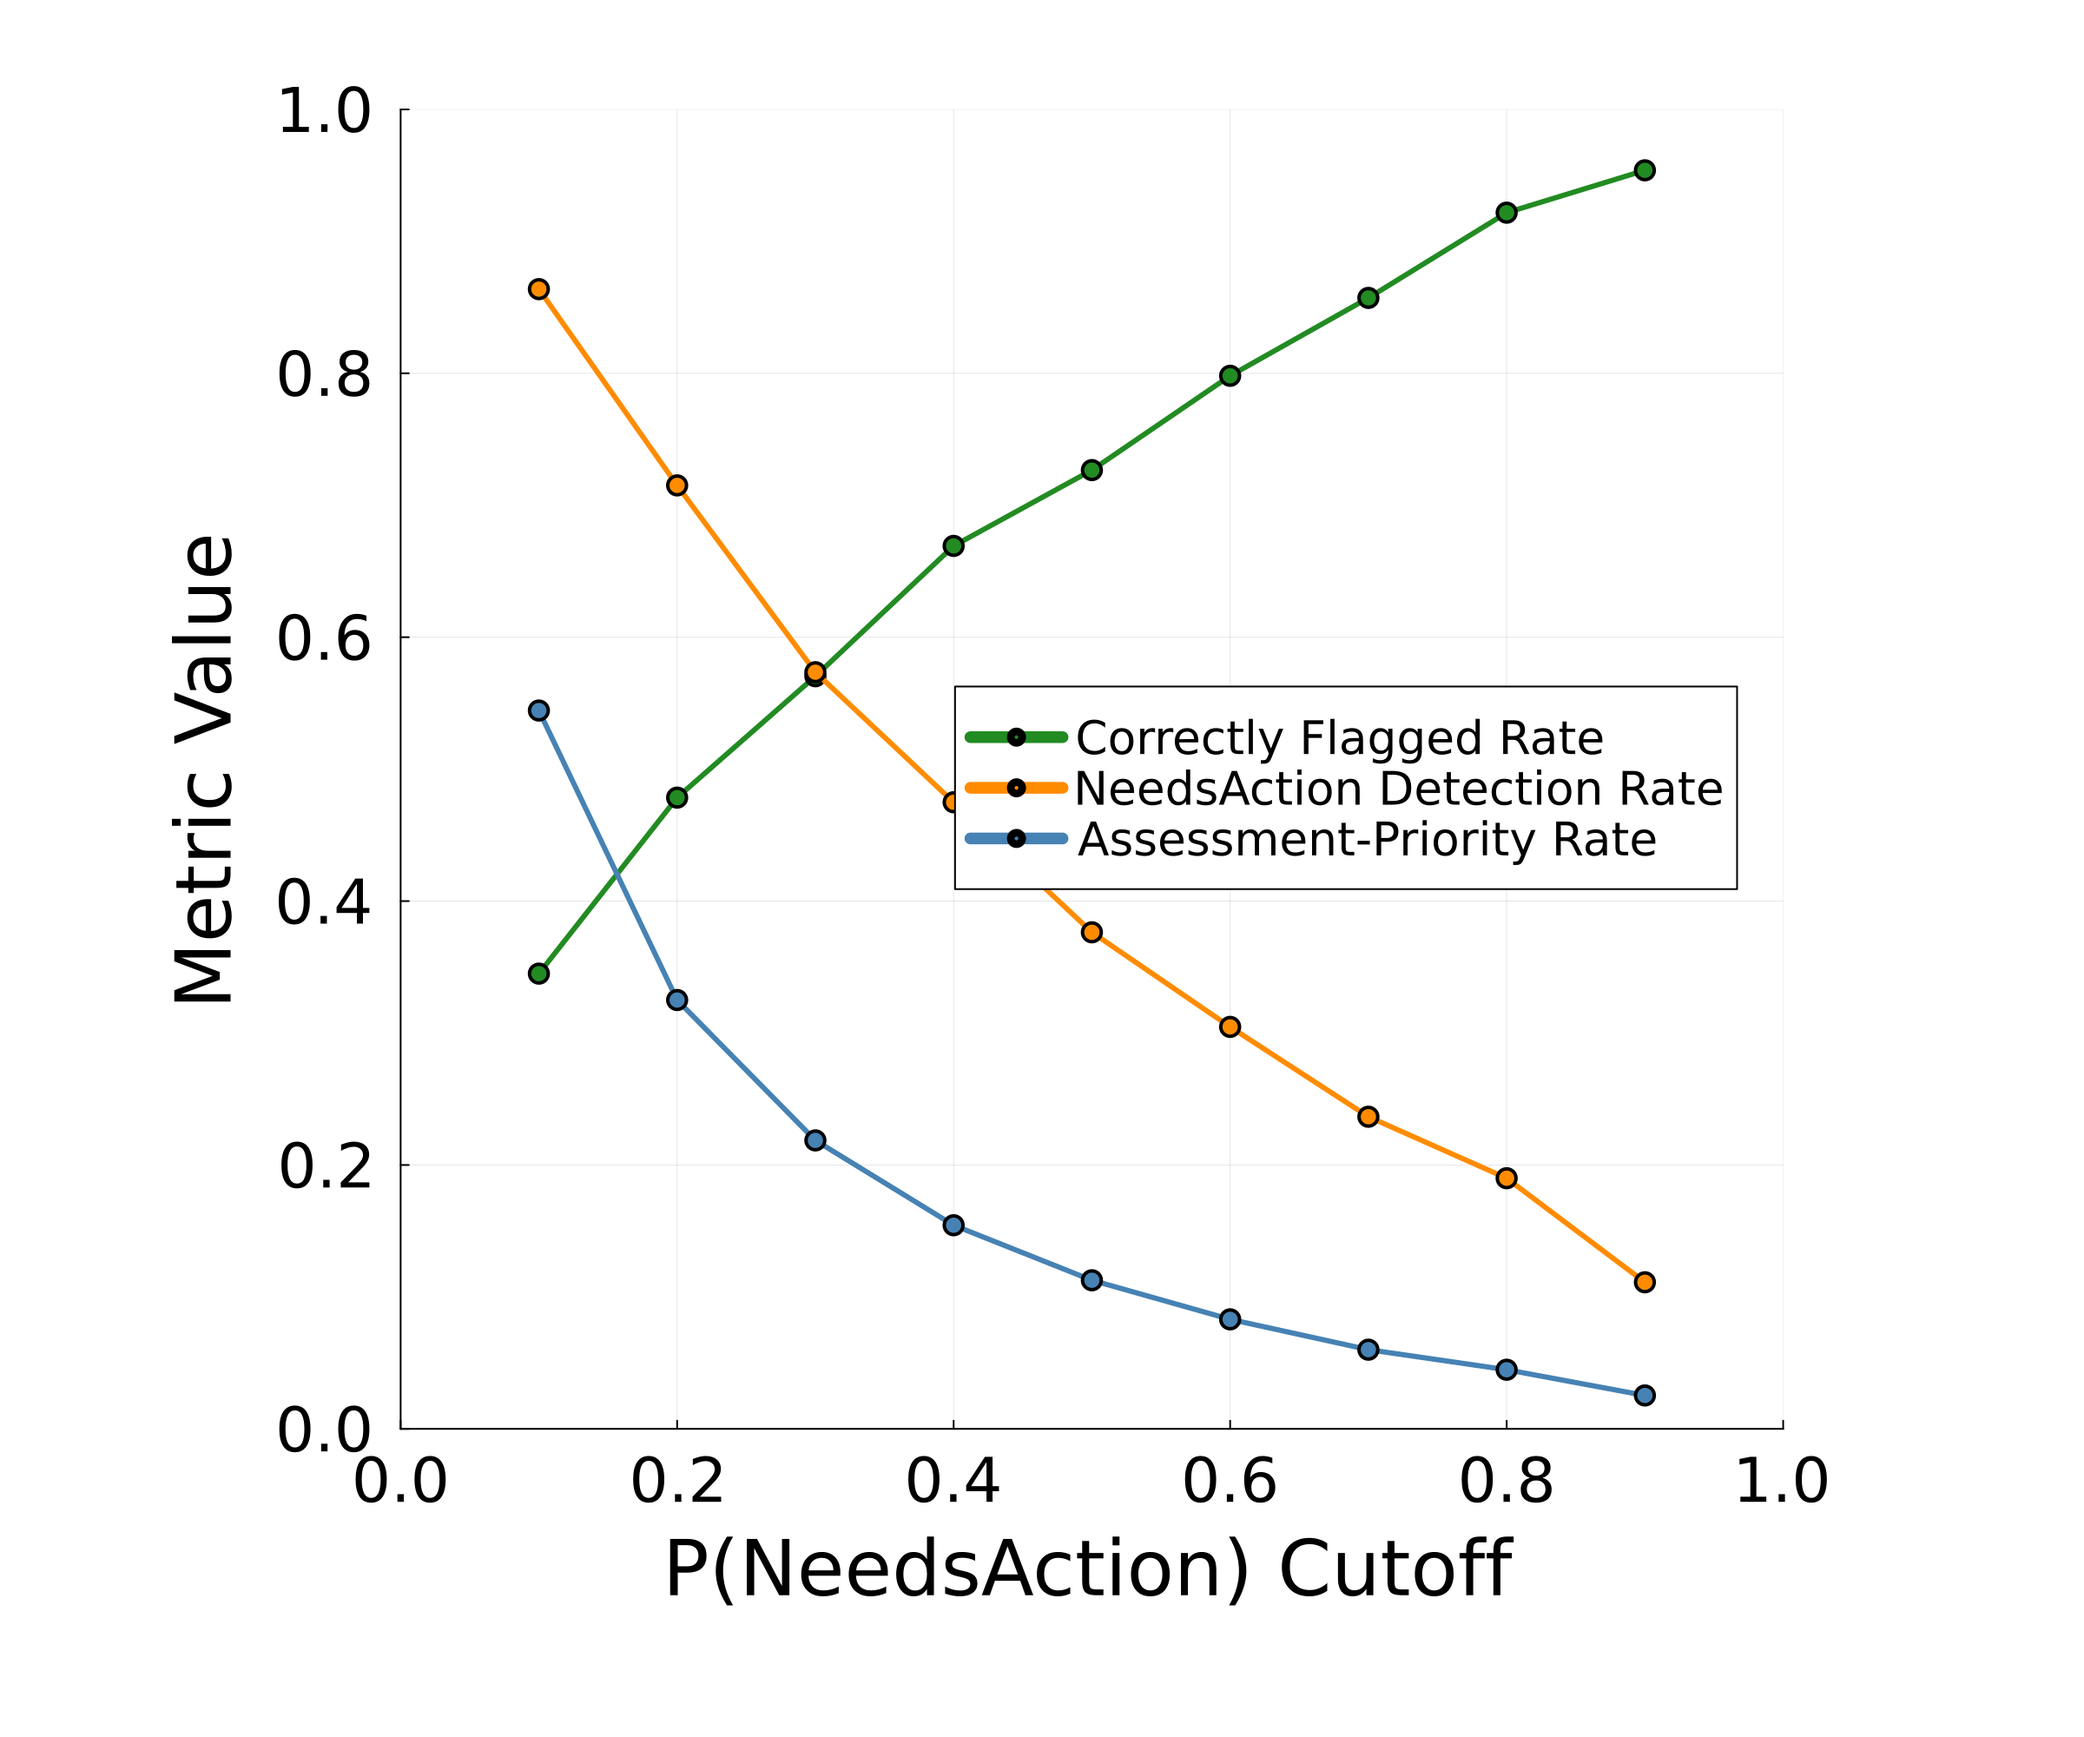
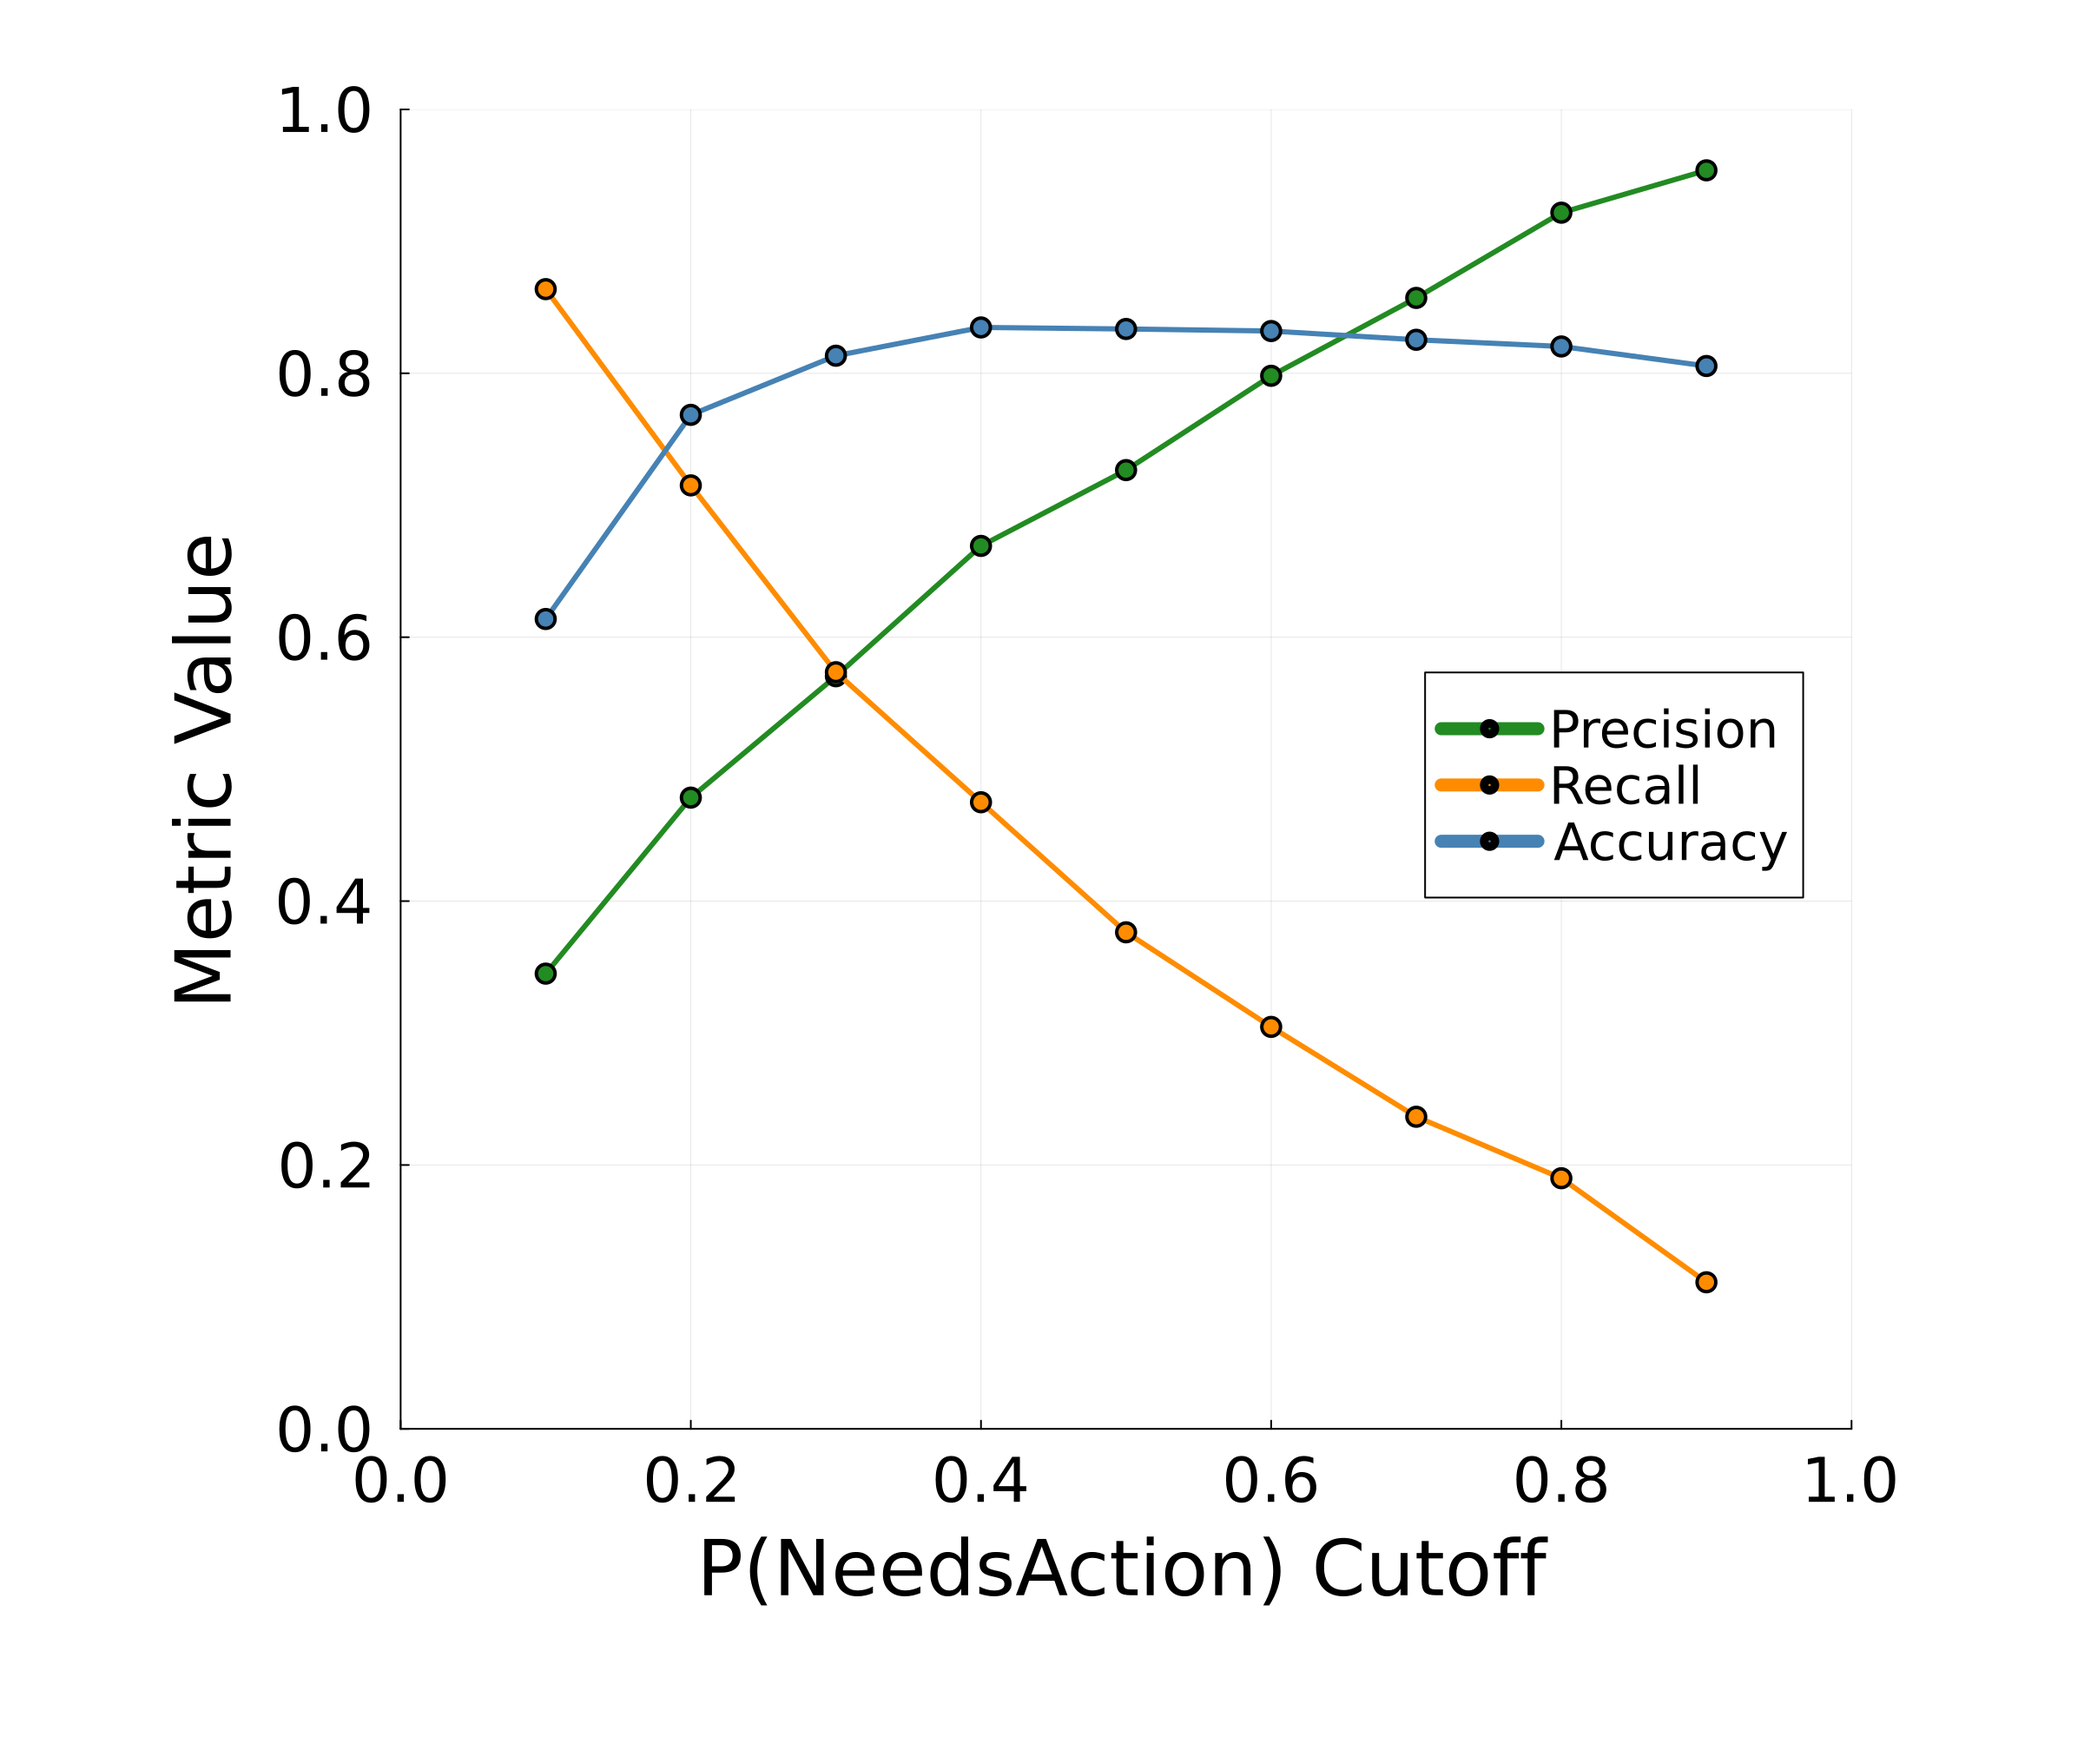
ANN analysis complete

diff --git a/reports/exploratory/exploratory.tex b/reports/exploratory/exploratory.tex
@@ -503,7 +503,7 @@ Table \ref{tab:ann-baseline-performance} shows the baseline results.  For a mode
 
 Since the dataset is considerably imbalanced (i.e. $\approx$ 79\% of data is "DoNothing" and $\approx$ 21\% is "NeedsAction"), one could imagine a classifier that only returns "DoNothing" would be accurate 79\% of the time.  The imbalance provides a probability based baseline for evaluating log loss. Rather than assigning a hard "DoNothing" label to every boiler, a prevalence only model assigns the same probability distribution to every observation based only on the observed frequency in the training data (DoNothing: $\approx$ 79\%, NeedsAction: $\approx$ 21\%) regardless of any parameter values. This prevalence only model produced a log loss of 0.5237. The baseline ANN achieved a lower held out log loss of 0.4014, indicating that its feature informed probability estimates were better than simply using the overall proportion of "NeedsAction" observations. The reduction in log loss was approximately 23.4\%.
 
-Additionally, the probability output was converted to a raw classification with an initial naive cutoff of .5 (pick the class with P() > .5) to determine if the ANN can provide better classification performance than the always "DoNothing" model. The ANN achieved a precision of 0.713, meaning that approximately 71\% of boilers flagged as "NeedsAction" were observed in that region. Recall was 0.401, meaning that the model identified approximately 40\% of all observed "NeedsAction" cases at that cutoff. The overall classification accuracy was 0.835, which is a roughly 5\% improvement over simply guessing "DoNothing" for all predictions.
+Additionally, the probability output was converted to a raw classification with an initial naive cutoff of .5 ($P(NeedsAction) > .5$) to determine if the ANN can provide better classification performance than the always "DoNothing" model. The ANN achieved a precision of 0.713, meaning that approximately 71\% of boilers flagged as "NeedsAction" were observed in that region. Recall was 0.401, meaning that the model identified approximately 40\% of all observed "NeedsAction" cases at that cutoff. The overall classification accuracy was 0.835, which is a roughly 5\% improvement over simply guessing "DoNothing" for all predictions.
 
 \begin{table}[htbp]
 \centering
@@ -524,9 +524,9 @@ Accuracy at 0.50 cutoff & 0.834762 \\
 \end{tabular}
 \end{table}
 
-With the baseline developed, a series of experiments were performed to improve upon the initial hyperparameter selection.  Iterative tests were performed by doing sweeps of different values of one parameter at a time, choosing the best performer, then iterating the same tests on another individual parameter.  Successive tests would utilize the best overall combinations of parameters.  Table \ref{tab:ann-tuning} summarizes the number of experiments performed.  Baseline epochs, batch size, and Optimizer selection proved to be the best performing options while $\lambda$, Learning Rate, and hidden layer configuration parameters were updated.  Overall performance gains were rather minimal.  Interestingly, experiments in hidden layer architecture revealed the best performance in one very large hidden layer as opposed to additional layers. 40 architecture selections were tried, and shallow networks consistently outperformed deep networks. Experiments with utilizing PCA projected data as input into the model were also performed, however this resulted in slightly worse model performance and was therefore omitted from the final configuration. Table \ref{tab:ann-configuration} shows the finalized configuration with the best performance found.  As an additional note, randomization was initialized with a hardcoded seed to ensure experimentation was repeatable and comparable.
+With the baseline developed, a series of experiments were performed to improve upon the initial hyperparameter selection.  Iterative tests were performed by doing sweeps of different values of one parameter at a time, choosing the best performer, then iterating the same tests on another individual parameter.  Successive tests would utilize the best overall combinations of parameters.  Table \ref{tab:ann-tuning} summarizes the number of experiments performed.  Baseline epochs, batch size, and optimizer selection proved to be the best performing options while $\lambda$, Learning Rate, and hidden layer configuration parameters were updated.  Overall performance gains were rather minimal.  Interestingly, experiments in hidden layer architecture revealed the best performance in one very large hidden layer as opposed to additional layers. 40 architecture selections were tried, and shallow networks consistently outperformed deep networks. Experiments with utilizing PCA projected data as input into the model were also performed, however this resulted in slightly worse model performance and was therefore omitted from the final configuration. Table \ref{tab:ann-configuration} shows the finalized configuration with the best performance found.  As an additional note, randomization was initialized with a hardcoded seed to ensure experimentation was repeatable and comparable.
 
-With hyperparameters tuned, the final stage of experimentation was variable feature selection. Trials of over 100 feature combinations where performed and the final (best performing) ANN feature selection used RSL, NormalizedAge, EffectiveAge, PredictedCI, Recency, PrevScore, PrevAssessed, NormalizedAssetAge, MonthSin, MonthCos, LogCRV, and Climate. This includes many more parameters than our hypothesized options during exploratory analysis.  While the performance difference was minimal, inclusion of all lifecycle parameters still resulted in lower log loss. The only omitted parameters were Qty, AssetAge, AssetDesignLife, and PercentGreen. 
+With hyperparameters tuned, the final stage of experimentation was variable feature selection. Trials of over 100 feature combinations were performed and the final (best performing) ANN feature selection used RSL, NormalizedAge, EffectiveAge, PredictedCI, Recency, PrevScore, PrevAssessed, NormalizedAssetAge, MonthSin, MonthCos, LogCRV, and Climate. This includes many more parameters than our hypothesized options during exploratory analysis.  While the performance difference was minimal, inclusion of all lifecycle parameters still resulted in lower log loss. The only omitted parameters were Qty, AssetAge, AssetDesignLife, and PercentGreen. 
 
 \begin{table}[htbp]
 \centering
@@ -570,8 +570,7 @@ Cross-validation & Five-fold stratified cross-validation \\
 \end{tabular}
 \end{table}
 
-%TODO
-Place some wrap up comments here referencing final performance and discussing the three plots and their implications.
+Table \ref{tab:ann-performance} shows the resulting tuned performance. Final results improved held out test log loss from 0.4014 to 0.3885 and improved the relative reduction from a prevalence-only baseline from 23.4\% to 25.8\%.  Precision and recall (with cutoff threshold at $P(NeedsAction) > .5$) shifted toward a slight decrease in false positives (higher precision) and increase in "DoNothing" labels for actual "NeedsAction" (lower recall). Figure \ref{fig:ann_cutoff_tradeoff} shows a threshold selection tradeoff when considering cutoff between .2 and .9; reasonable selections could vary between .3 and .5 depending on decision maker priority. Figure \ref{fig:ann_probs_by_region} further emphasizes that range as it becomes more clear (at least visually) that classification becomes most distinguished within those probability cutoffs. Additionally, Figure \ref{fig:ann_probs_by_region} also shows that for boilers that were observed in "DoNothing", predominately low $P(NeedsAction)$ values are assigned (a desirable outcome); however, boilers observed in "NeedsAction" remain assigned more evenly distributed $P(NeedsAction)$ values with a slightly observed bias toward low probabilities. This shows that the model still struggles to create a fully clear distinction between the two categories.
 
 \begin{table}[htbp]
 \centering
@@ -594,23 +593,27 @@ Accuracy at 0.50 cutoff & 0.833593 \\
 
 \begin{figure}
 \centering
+\includegraphics[width=.8\linewidth]{ANN_Cutoff_Tradeoff.png}
+\caption{Classifier Threshold Selection Tradeoff}
+\label{fig:ann_cutoff_tradeoff}
+\end{figure}
+
+\begin{figure}
+\centering
 \includegraphics[width=.8\linewidth]{ANN_Probabilities_By_Region.png}
 \caption{Predicted Probability by Observed Region}
 \label{fig:ann_probs_by_region}
 \end{figure}
+
+\FloatBarrier
+
+Figure \ref{fig:ann_prediction_reliability} compares binned mean predicted "NeedsAction" probabilities with the observed "NeedsAction" frequency within each bin. Points near the diagonal indicate probability ranges where the ANN predictions approximately matched the observed frequency, while deviations from the diagonal indicate probability ranges where the model over or under estimated the $P(NeedsAction)$ rate.  Overall, very little deviation from optimal calibration is observed, indicating that despite the lack of clear distinction between "DoNothing" and "NeedsAction" the frequencies of detection are consistent with the data.  This may point to a consistency with the randomness of the real world, relatively new equipment may have faults and failures, but equipment that has operated well for the first few years tends to not have as many failures throughout the rest of its design life. It may also be explained by other unobserved characteristics or variation in assessment outcomes.  Final conclusions of the ANN approach support that the model is a practical and useful improvement over the prevalence-only probability baseline.
 
 \begin{figure}
 \centering
 \includegraphics[width=.8\linewidth]{ANN_Prediction_Reliabilty.png}
 \caption{Calibration of Predicted Probabilities}
 \label{fig:ann_prediction_reliability}
-\end{figure}
-
-\begin{figure}
-\centering
-\includegraphics[width=.8\linewidth]{ANN_Cutoff_Tradeoff.png}
-\caption{Assessment Selection Tradeoff}
-\label{fig:ann_cutoff_tradeoff}
 \end{figure}
 
 \FloatBarrier
